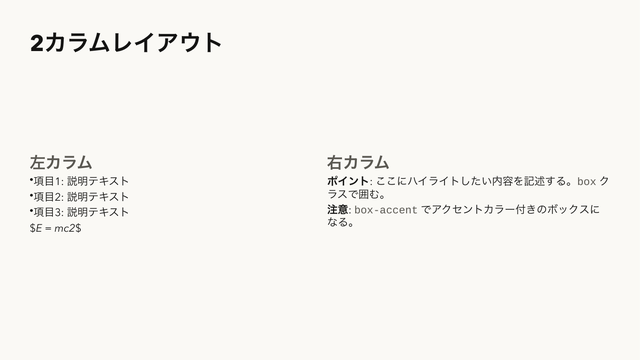
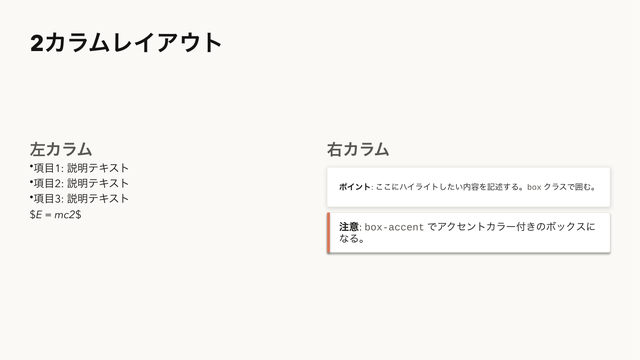
Rescue missing-image slides, render column boxes, balance cards
A full-catalog visual audit (all 53 type thumbnails, claude theme)
against the distilled design bar found three classes of weakness; each
fix is engine-level so every deck gains it.

- missing images: nine types (figure/diagram/annotation/overview/
  panorama/result/result-dual/figure-cols/gallery-img) rendered a
  near-empty slide when an image path didn't resolve. _image_or_
  placeholder() now feeds every image slot a generated 16:10 placeholder
  PNG in theme colors — frame, image glyph, filename, "image not found" —
  so drafts read as decks and the author sees which asset to fix. All
  call sites route through it; _resolve_image and its warn stay for tests
- column boxes: <div class="box|box-accent|box-primary"> inside cols-N /
  sandwich columns silently flattened to plain text (the skeletons
  advertise the styling). parser.column_lines() emits \x00 sentinels and
  _add_column_content renders real cards (accent/primary left bar via
  _add_accent_box, plain via _add_card); _column_height mirrors the
  chrome so group-centering still measures true. _add_body_text drops
  stray sentinels as a safety net
- card balance: _add_zone_box defaults to anchor="middle" — a short
  label+body pinned to the top of a tall card left the bottom two-thirds
  empty across card-grid/zone-*/steps/split-text/before-after
- agenda rows widen to 1.15in so a 3-4 item agenda occupies the canvas
- sandwich columns go through _add_column_content, gaining box and
  image support for free
[…]

Changed region(s): [[0.5, 0.3972, 0.9688, 0.7333], [0.0312, 0.3972, 0.2188, 0.6417]]

diff --git a/src/marp_pptx/builder.py b/src/marp_pptx/builder.py
@@ -873,6 +873,9 @@ class PptxBuilder:
         return _Pt(fitted)
 
     def _add_body_text(self, slide, lines, left=None, top=None, width=None, height=None, size=None):
+        # Safety net: \x00 box sentinels (parser.column_lines) are consumed by
+        # _add_column_content; any that reach a plain text path must not print.
+        lines = [l for l in lines if not l.strip().startswith("\x00")]
         if size is None:
             size = SZ_BODY
         if left is None: left = MARGIN_L
@@ -1035,10 +1038,68 @@ class PptxBuilder:
     def _set_text_with_inline_math(self, para, text, size, color):
         return self._set_rich_text(para, text, size=size, color=color)
 
+    def _image_or_placeholder(self, img_path: str) -> str | None:
+        """Resolved image path, or a generated placeholder PNG when missing.
+
+        A missing figure used to leave the slide near-empty (warn + skip).
+        Every image slot now stays visible — a themed frame with an image
+        glyph and the missing filename — so a draft deck still reads as a
+        deck and the author can see exactly which asset to fix.
+        Returns None only when no image was asked for at all.
+        """
+        if not img_path:
+            return None
+        resolved = self._resolve_image(img_path)
+        if resolved:
+            return resolved
+        try:
+            return self._placeholder_png(Path(img_path).name)
+        except Exception:
+            return None   # placeholder is best-effort; the warn already fired
+
+    def _placeholder_png(self, label: str) -> str:
+        """Render (and cache) a 16:10 placeholder PNG in theme colors."""
+        cache = getattr(self, "_ph_cache", None)
+        if cache is None:
+            import tempfile as _tf
+            self._ph_dir = _tf.TemporaryDirectory(prefix="marp_ph_")
+            cache = self._ph_cache = {}
+        if label in cache:
+            return cache[label]
+        from PIL import Image as PImage, ImageDraw, ImageFont
+        W, H = 1440, 900
+        light, muted, hair, accent = (tuple(self.LIGHT), tuple(self.MUTED),
+                                      tuple(self.HAIRLINE), tuple(self.ACCENT))
+        im = PImage.new("RGB", (W, H), light)
+        d = ImageDraw.Draw(im)
+        d.rectangle([1, 1, W - 2, H - 2], outline=hair, width=3)
+        # image glyph: frame + sun + mountains
+        gx, gy, gw, gh = (W - 340) // 2, 190, 340, 240
+        d.rounded_rectangle([gx, gy, gx + gw, gy + gh], radius=18,
+                            outline=muted, width=6)
+        d.ellipse([gx + 58, gy + 48, gx + 106, gy + 96], fill=accent)
+        d.polygon([(gx + 24, gy + gh - 24), (gx + 132, gy + 82),
+                   (gx + 208, gy + gh - 24)], fill=muted)
+        d.polygon([(gx + 150, gy + gh - 24), (gx + 238, gy + 118),
+                   (gx + gw - 24, gy + gh - 24)], fill=muted)
+        try:
+            fp = metrics.font_file(self.FONT_EA) or metrics.font_file(self.FONT)
+            f_big = ImageFont.truetype(fp, 46)
+            f_small = ImageFont.truetype(fp, 32)
+        except Exception:
+            f_big = f_small = ImageFont.load_default()
+        d.text((W // 2, gy + gh + 96), label, fill=muted, font=f_big, anchor="mm")
+        d.text((W // 2, gy + gh + 162), "image not found", fill=muted,
+               font=f_small, anchor="mm")
+        out = str(Path(self._ph_dir.name) / f"ph_{len(cache)}.png")
+        im.save(out)
+        cache[label] = out
+        return out
+
     def _resolve_image(self, img_path: str) -> str | None:
         p = self.base_path / img_path
         if not p.exists():
-            self._warn(f"image not found, skipping: {img_path}")
+            self._warn(f"image not found, placeholder drawn: {img_path}")
             return None
         if p.suffix.lower() == ".svg":
             png_path = p.with_suffix(".png")
@@ -1159,12 +1220,15 @@ class PptxBuilder:
     def _add_zone_box(self, slide, left, top, width, height,
                       label="", body="", fill_color=None, fill=None,
                       label_size=None, body_size=None,
-                      accent_bar=False, accent=None, anchor="top"):
+                      accent_bar=False, accent=None, anchor="middle"):
         """Backward-compatible wrapper over the refined-minimal card.
 
         Every zone-based builder (zone-flow/compare/matrix/process, steps,
         stack, card-grid, split-text, before-after, multi-result) routes
         through here, so they all gain the visible surface + hairline at once.
+        anchor defaults to "middle": a short label+body pinned to the top of a
+        tall card leaves the bottom two-thirds empty, which is the single most
+        common "looks unfinished" complaint in real decks.
         """
         return self._add_card(
             slide, (left, top, width, height),
@@ -1382,7 +1446,7 @@ class PptxBuilder:
                 text_lines.append(line)
         cur_top = top
         for img_path in images:
-            img_file = self._resolve_image(img_path)
+            img_file = self._image_or_placeholder(img_path)
             if img_file:
                 from PIL import Image
                 with Image.open(img_file) as im:
@@ -1395,21 +1459,80 @@ class PptxBuilder:
                 img_left = left + (width - pw) // 2
                 slide.shapes.add_picture(img_file, img_left, cur_top, pw, ph)
                 cur_top += ph + Inches(0.1)
-        remaining_h = top + height - cur_top
-        if text_lines and remaining_h > 0:
-            # Hug content height (capped at remaining), don't force full column.
-            # Measure at the column's own width — without it this re-estimate
-            # threw away the wrap-aware height the caller had just computed and
-            # gave every wrapped bullet a single line.
-            estimated = self._estimate_text_height(text_lines, size, width=width)
-            use_h = min(int(remaining_h), int(estimated))
-            tb = self._add_body_text(slide, text_lines, left=left, top=int(cur_top),
-                                     width=int(width), height=use_h, size=size)
-            # Lock the column textbox size — some viewers (Keynote, LibreOffice)
-            # ignore spAutoFit and render the stored height. Disable autofit so
-            # the zone stays predictable for downstream placement.
-            if tb is not None:
-                tb.text_frame.auto_size = MSO_AUTO_SIZE.NONE
+        # Render text and box segments in author order. Boxes arrive as
+        # \x00-sentinel runs from parser.column_lines — before this, a
+        # <div class="box-accent"> in a column silently rendered as plain
+        # text (the styling the skeletons advertise never appeared).
+        for kind, seg in self._column_segments(text_lines):
+            seg_lines = [l for l in seg if l.strip()]
+            if not seg_lines:
+                continue
+            remaining_h = top + height - cur_top
+            if remaining_h <= 0:
+                break
+            if kind == "text":
+                # Hug content height (capped at remaining), don't force full
+                # column. Measure at the column's own width — without it this
+                # re-estimate threw away the wrap-aware height the caller had
+                # just computed and gave every wrapped bullet a single line.
+                estimated = self._estimate_text_height(seg_lines, size, width=width)
+                use_h = min(int(remaining_h), int(estimated))
+                tb = self._add_body_text(slide, seg_lines, left=left, top=int(cur_top),
+                                         width=int(width), height=use_h, size=size)
+                # Lock the column textbox size — some viewers (Keynote,
+                # LibreOffice) ignore spAutoFit and render the stored height.
+                if tb is not None:
+                    tb.text_frame.auto_size = MSO_AUTO_SIZE.NONE
+                cur_top += use_h + int(Inches(0.12))
+            else:
+                inner_w = int(width - Pt(34))
+                est = self._estimate_text_height(seg_lines, SZ_ZONE_B, width=inner_w)
+                box_h = min(int(remaining_h), int(est + Pt(16)))
+                border = {"accent": self.ACCENT, "primary": self.SECONDARY}.get(kind)
+                if border is not None:
+                    self._add_accent_box(slide, "\n".join(seg_lines), left, cur_top,
+                                         width, box_h, border_color=border)
+                else:
+                    self._add_card(slide, (left, int(cur_top), int(width), box_h),
+                                   body_lines=seg_lines, anchor="middle")
+                cur_top += box_h + int(Inches(0.12))
+
+    @staticmethod
+    def _column_segments(lines):
+        """Split column lines into ("text" | "plain" | "accent" | "primary", lines)."""
+        segs, kind, cur = [], "text", []
+        for line in lines:
+            s = line.strip()
+            if s.startswith("\x00BOX"):
+                if cur:
+                    segs.append((kind, cur))
+                parts = s.split()
+                kind, cur = (parts[1] if len(parts) > 1 else "plain"), []
+            elif s == "\x00END":
+                segs.append((kind, cur))
+                kind, cur = "text", []
+            else:
+                cur.append(line)
+        if cur:
+            segs.append((kind, cur))
+        return segs
+
+    def _column_height(self, lines, size, width):
+        """Height a column needs — box chrome included (mirror of the renderer)."""
+        total, first = 0, True
+        for kind, seg in self._column_segments(lines):
+            seg_lines = [l for l in seg if l.strip()]
+            if not seg_lines:
+                continue
+            if not first:
+                total += int(Inches(0.12))
+            first = False
+            if kind == "text":
+                total += int(self._estimate_text_height(seg_lines, size, width=width))
+            else:
+                total += int(self._estimate_text_height(
+                    seg_lines, SZ_ZONE_B, width=int(width - Pt(34))) + Pt(16))
+        return total
 
     # ══════════════════════════════════════════════
     # Slide type builders
@@ -1934,9 +2057,9 @@ class PptxBuilder:
         heights = []
         for i, col_lines in enumerate(sd.columns):
             col_w = widths[i] if i < len(widths) else widths[-1]
-            ch = int(self._estimate_text_height(
+            ch = self._column_height(
                 [l for l in col_lines if not l.strip().startswith("![")], size,
-                width=col_w))
+                col_w)
             heights.append(min(ch, rheight))
         top = rtop + max(0, (rheight - max(heights, default=0)) // 2)
         x = rleft
@@ -1974,8 +2097,10 @@ class PptxBuilder:
             col_w = (rwidth - gap * (n - 1)) // n
             for i, col_lines in enumerate(sd.columns):
                 left = rleft + i * (col_w + gap)
-                self._add_body_text(slide, col_lines, left=int(left), top=int(cur),
-                                    width=int(col_w), height=int(col_h), size=SZ_COL)
+                # Through _add_column_content so box divs and images render
+                # in sandwich columns exactly as they do in cols-N.
+                self._add_column_content(slide, col_lines, left=int(left), top=int(cur),
+                                         width=int(col_w), height=int(col_h), size=SZ_COL)
             cur += col_h + int(BLOCK_GAP)
         if sd.bottom_text:
             self._add_conclusion_box(slide, sd.bottom_text, rleft, int(cur), rwidth, concl_h)
@@ -1989,7 +2114,7 @@ class PptxBuilder:
                                                width=rwidth)) if sd.caption else 0
         desc_h = int(self._estimate_text_height(sd.body_lines, SZ_COL,
                                                width=rwidth)) if sd.body_lines else 0
-        img_file = self._resolve_image(sd.image_path) if sd.image_path else None
+        img_file = self._image_or_placeholder(sd.image_path) if sd.image_path else None
         img_top = rtop; ph = 0; pw = 0
         if img_file:
             from PIL import Image
@@ -2376,7 +2501,9 @@ class PptxBuilder:
             return
         rleft, rtop, rwidth, rheight = self._content_region(has_title=bool(sd.h1))
         n = len(sd.agenda_items)
-        row_h = int(min(Inches(0.92), rheight / max(n, 1)))
+        # 1.15in rows let a 3-4 item agenda occupy the canvas instead of
+        # huddling in the middle; longer agendas divide the space as before.
+        row_h = int(min(Inches(1.15), rheight / max(n, 1)))
         block_h = row_h * n
         top = rtop + max(0, (rheight - block_h) // 2)
         num_w = int(Inches(0.9))
@@ -2447,7 +2574,7 @@ class PptxBuilder:
         cap_h = int(Inches(0.45))
         for i, item in enumerate(sd.result_dual_items):
             x = rleft + i * (col_w + gap)
-            img_file = self._resolve_image(item.get("image", ""))
+            img_file = self._image_or_placeholder(item.get("image", ""))
             ph = 0
             img_top = rtop
             if img_file:
@@ -2558,7 +2685,7 @@ class PptxBuilder:
         # Reserve room for the figure caption — overview/result dropped it
         # entirely (the figure showed, but `Fig. N. …` never rendered).
         cap_h = int(Inches(0.5)) if sd.caption else 0
-        img_file = self._resolve_image(image_path) if image_path else None
+        img_file = self._image_or_placeholder(image_path) if image_path else None
         if img_file:
             from PIL import Image
             with Image.open(img_file) as im:
@@ -2709,7 +2836,7 @@ class PptxBuilder:
         rleft, rtop, rwidth, rheight = self._content_region(has_title=bool(sd.h1), full=True)
         cap_h = int(self._estimate_text_height([sd.panorama_text], SZ_SMALL,
                                                width=rwidth)) if sd.panorama_text else 0
-        img_file = self._resolve_image(sd.image_path) if sd.image_path else None
+        img_file = self._image_or_placeholder(sd.image_path) if sd.image_path else None
         img_top = rtop; ph = 0
         if img_file:
             from PIL import Image
@@ -2851,7 +2978,7 @@ class PptxBuilder:
         cap_h = (max(int(Inches(0.5)),
                      int(self._estimate_text_height([sd.caption], SZ_SMALL, width=rwidth)))
                  if sd.caption else 0)
-        img_file = self._resolve_image(sd.image_path) if sd.image_path else None
+        img_file = self._image_or_placeholder(sd.image_path) if sd.image_path else None
         img_top = rtop; ph = 0
         if img_file:
             from PIL import Image
@@ -2899,7 +3026,7 @@ class PptxBuilder:
             self._no_shadow(card)
             cap_text = item.get("caption", "")
             cap_h = int(Inches(0.34)) if cap_text else 0
-            img_file = self._resolve_image(item.get("image", ""))
+            img_file = self._image_or_placeholder(item.get("image", ""))
             if img_file:
                 from PIL import Image
                 with Image.open(img_file) as im:
@@ -3001,7 +3128,7 @@ class PptxBuilder:
         fig_w = int(rwidth * 0.56)
         notes_w = rwidth - fig_w - int(Inches(0.35))
         notes_x = rleft + fig_w + int(Inches(0.35))
-        img_file = self._resolve_image(sd.annotation_figure) if sd.annotation_figure else None
+        img_file = self._image_or_placeholder(sd.annotation_figure) if sd.annotation_figure else None
         if img_file:
             from PIL import Image
             with Image.open(img_file) as im:
@@ -3392,7 +3519,7 @@ class PptxBuilder:
         left_w = int(Inches(3.2))
         right_x = rleft + left_w + int(Inches(0.5))
         right_w = rwidth - left_w - int(Inches(0.5))
-        img_file = self._resolve_image(sd.image_path) if sd.image_path else None
+        img_file = self._image_or_placeholder(sd.image_path) if sd.image_path else None
         if img_file:
             from PIL import Image
             with Image.open(img_file) as im:

diff --git a/src/marp_pptx/parser.py b/src/marp_pptx/parser.py
@@ -97,6 +97,25 @@ def extract_child_divs(text: str) -> list[str]:
     return children
 
 
+# Column children may contain <div class="box|box-accent|box-primary"> blocks.
+# parse_markdown_lines() flattens HTML to text, which silently dropped the box
+# styling (the skeletons advertise it). column_lines() converts each box div
+# into \x00-sentinel lines that the builder renders as a real card.
+_BOX_DIV_RE = re.compile(
+    r'<div\s+class="[^"]*\bbox(?:-(accent|primary))?\b[^"]*"\s*>(.*?)</div>',
+    re.DOTALL)
+
+
+def column_lines(text: str) -> list[str]:
+    """parse_markdown_lines + box-div sentinels for column content."""
+    def repl(m):
+        # Blank lines around the sentinels keep the soft-wrap merger from
+        # gluing them onto adjacent content lines.
+        kind = m.group(1) or "plain"
+        return f"\n\n\x00BOX {kind}\n\n{m.group(2)}\n\n\x00END\n\n"
+    return parse_markdown_lines(_BOX_DIV_RE.sub(repl, text))
+
+
 def parse_markdown_lines(text: str) -> list[str]:
     lines = []
     for line in text.split("\n"):
@@ -419,7 +438,7 @@ def parse_slide(index: int, raw: str) -> SlideData:
         cols = extract_div(content, "columns")
         if cols:
             for child in extract_child_divs(cols):
-                sd.columns.append(parse_markdown_lines(child))
+                sd.columns.append(column_lines(child))
         else:
             # Fallback: no <div class="columns"> wrapper — treat top-level
             # <div>s (that are not known utility classes) as columns directly.
@@ -434,7 +453,7 @@ def parse_slide(index: int, raw: str) -> SlideData:
                 body = re.sub(pattern, "", body, flags=re.DOTALL)
             children = extract_child_divs(body)
             for child in children:
-                sd.columns.append(parse_markdown_lines(child))
+                sd.columns.append(column_lines(child))
         fn = extract_div(content, "footnote")
         if fn:
             sd.footnote = strip_html(fn)
@@ -447,7 +466,7 @@ def parse_slide(index: int, raw: str) -> SlideData:
         cols = extract_div(content, "columns")
         if cols:
             for child in extract_child_divs(cols):
-                sd.columns.append(parse_markdown_lines(child))
+                sd.columns.append(column_lines(child))
         bottom = extract_div(content, "bottom")
         if bottom:
             conc = extract_div(bottom, "conclusion")
